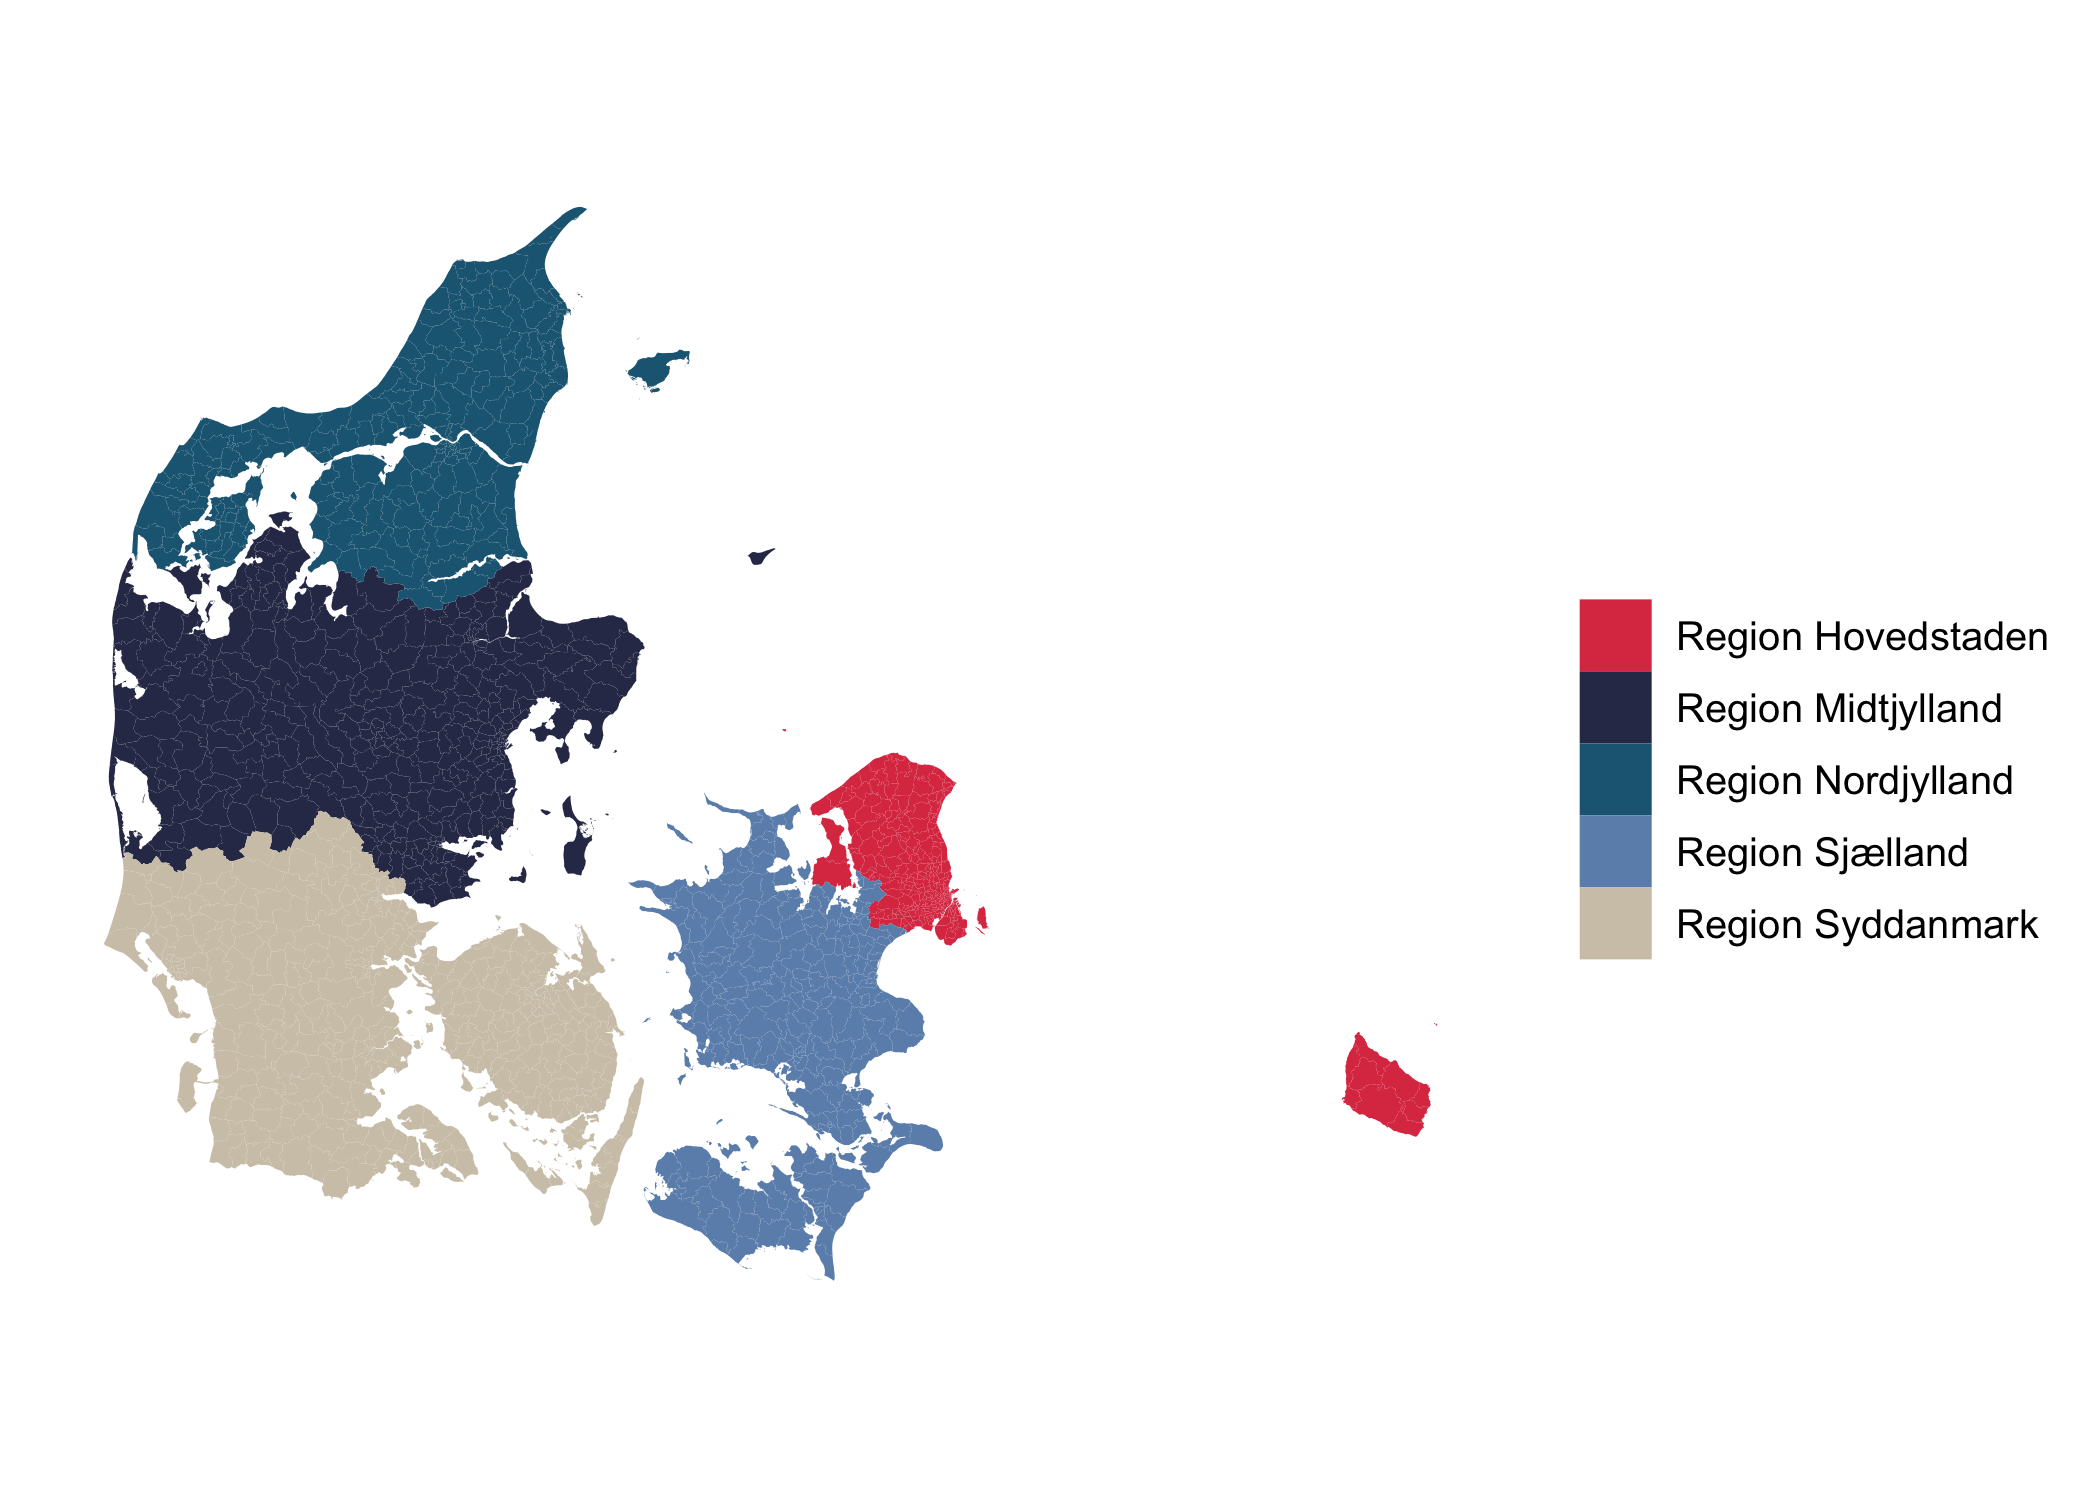
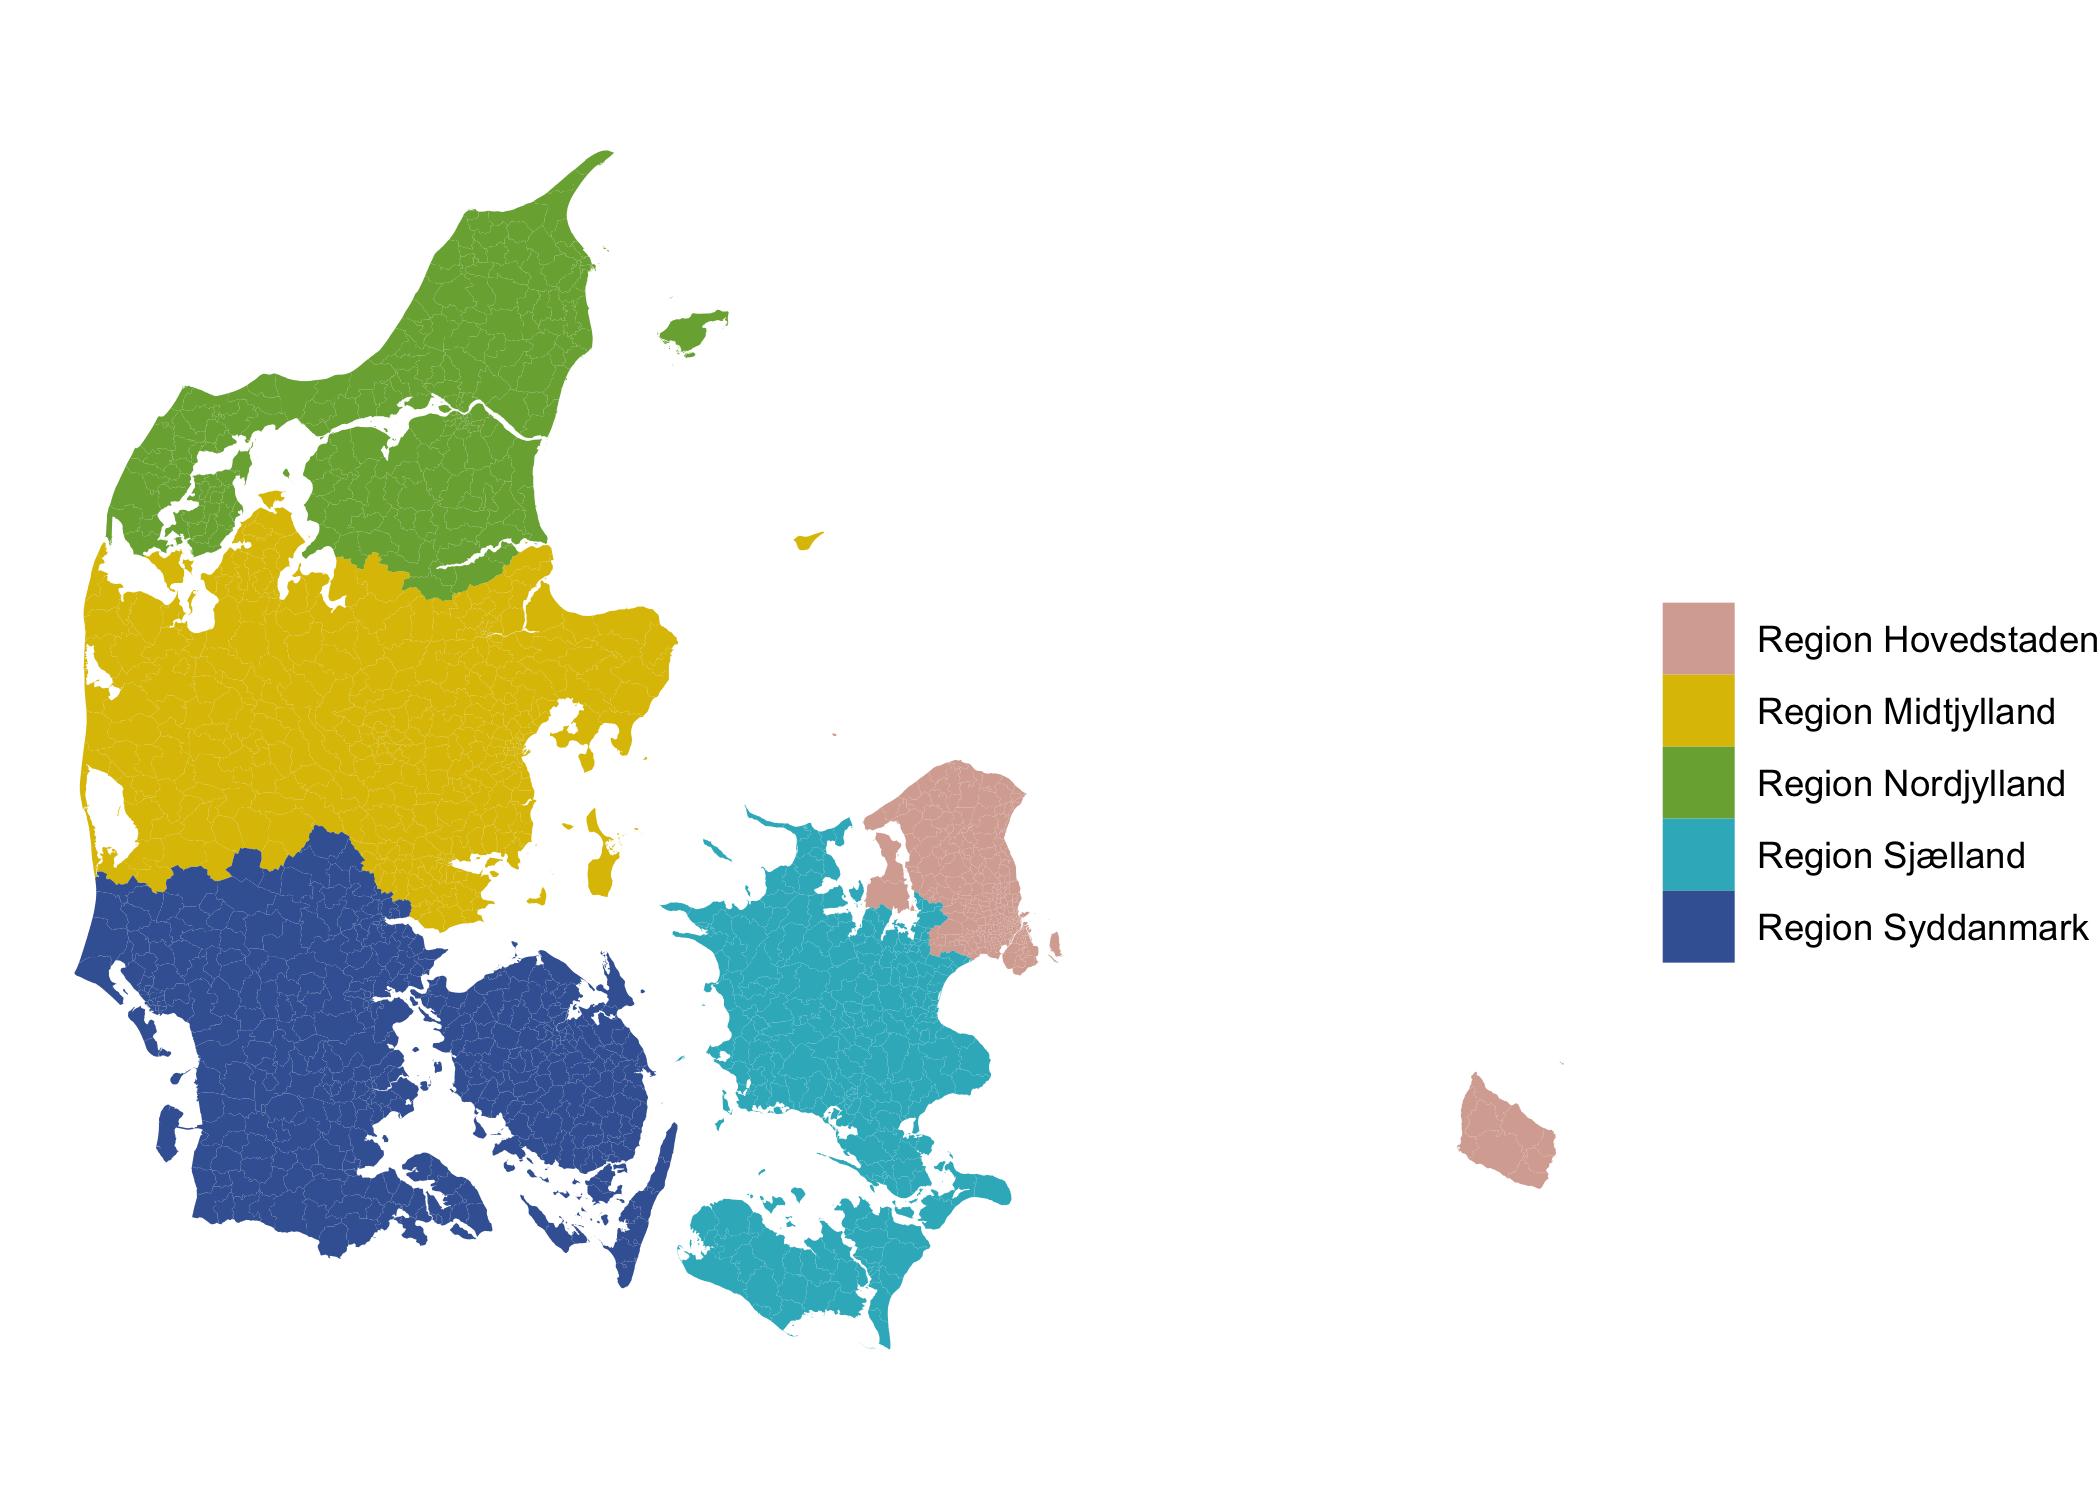
readme

Changed region(s): [[0.031, 0.092, 0.4952, 0.8893], [0.7429, 0.3987, 1.0, 0.644], [0.619, 0.6747, 0.7429, 0.7973]]

diff --git a/README.md b/README.md
@@ -7,10 +7,11 @@
 
 [![CodeFactor](https://www.codefactor.io/repository/github/jvieroe/voters/badge)](https://www.codefactor.io/repository/github/jvieroe/voters)
 [![R-CMD-check](https://github.com/jvieroe/voters/workflows/R-CMD-check/badge.svg)](https://github.com/jvieroe/voters/actions)
-[![License: GPL
-(\>= 3)](https://img.shields.io/badge/license-GPL%20\(%3E=%203\)-blue.svg)](https://cran.r-project.org/web/licenses/GPL%20\(%3E=%203\))
+[![License: GPL (>=
+3)](https://img.shields.io/badge/license-GPL%20(%3E=%203)-blue.svg)](https://cran.r-project.org/web/licenses/GPL%20(%3E=%203))
 [![](https://img.shields.io/github/last-commit/https://github.com/jvieroe/voters.svg)](https://github.com/https://github.com/jvieroe/voters/commits/main)
-[![](https://img.shields.io/badge/lifecycle-experimental-orange.svg)](https://lifecycle.r-lib.org/articles/stages.html#experimental)
+[![](https://img.shields.io/badge/lifecycle-stable-brightgreen.svg)](https://lifecycle.r-lib.org/articles/stages.html#stable)
+[![](https://img.shields.io/badge/devel%20version-0.1.0-dodgerblue.svg)](https://github.com/https://github.com/jvieroe/voters)
 <!-- badges: end -->
 
 # Introduction
@@ -68,19 +69,18 @@ df
 
 ``` r
 library(ggplot2)
-library(Manu)
-library(ggpubr)
+library(MetBrewer)
+
+pal <- met.brewer("Isfahan2", type = "discrete")
 
 df %>% 
-  #filter(stkreds %in% c("København", "Københavns Omegn")) %>% 
   ggplot(data = .) +
   geom_sf(aes(fill = regi),
           color = "grey90",
           size = .0000000001) +
-  scale_fill_manual(values = Manu::get_pal("Takahe"),
+  scale_fill_manual(values = pal,
                       name = "") +
-  theme_void() +
-  ggpubr::theme_transparent()
+  theme_void()
 ```
 
 <img src="man/figures/README-unnamed-chunk-4-1.png" width="85%" style="display: block; margin: auto;" />
@@ -89,8 +89,8 @@ df %>%
 
 ### Data format
 
-As a default, data is downloaded as a spatial dataset of type `"sf",
-"tibble"`:
+As a default, data is downloaded as a spatial dataset of type
+`"sf", "tibble"`:
 
 ``` r
 class(df)
@@ -138,13 +138,13 @@ devtools::install_github("jvieroe/voters")
 
 # Acknowledgements
 
-  - [Danmarks Adressers Web API
+-   [Danmarks Adressers Web API
     (DAWA)](https://dawadocs.dataforsyningen.dk/) for the data and the
     API functionality
-  - [Danish Election Database](https://valgdatabase.dst.dk/?lang=en) for
+-   [Danish Election Database](https://valgdatabase.dst.dk/?lang=en) for
     data
-  - Frederik Hjorth ([fghjorth](http://fghjorth.github.io/)) and Bo
+-   Frederik Hjorth ([fghjorth](http://fghjorth.github.io/)) and Bo
     Schwartz Madsen
     ([BoSchwartz](https://twitter.com/boschwartz?lang=en)) for
     development ideas
-  - The `R` Core Team for developing and maintaining the language
+-   The `R` Core Team for developing and maintaining the language
